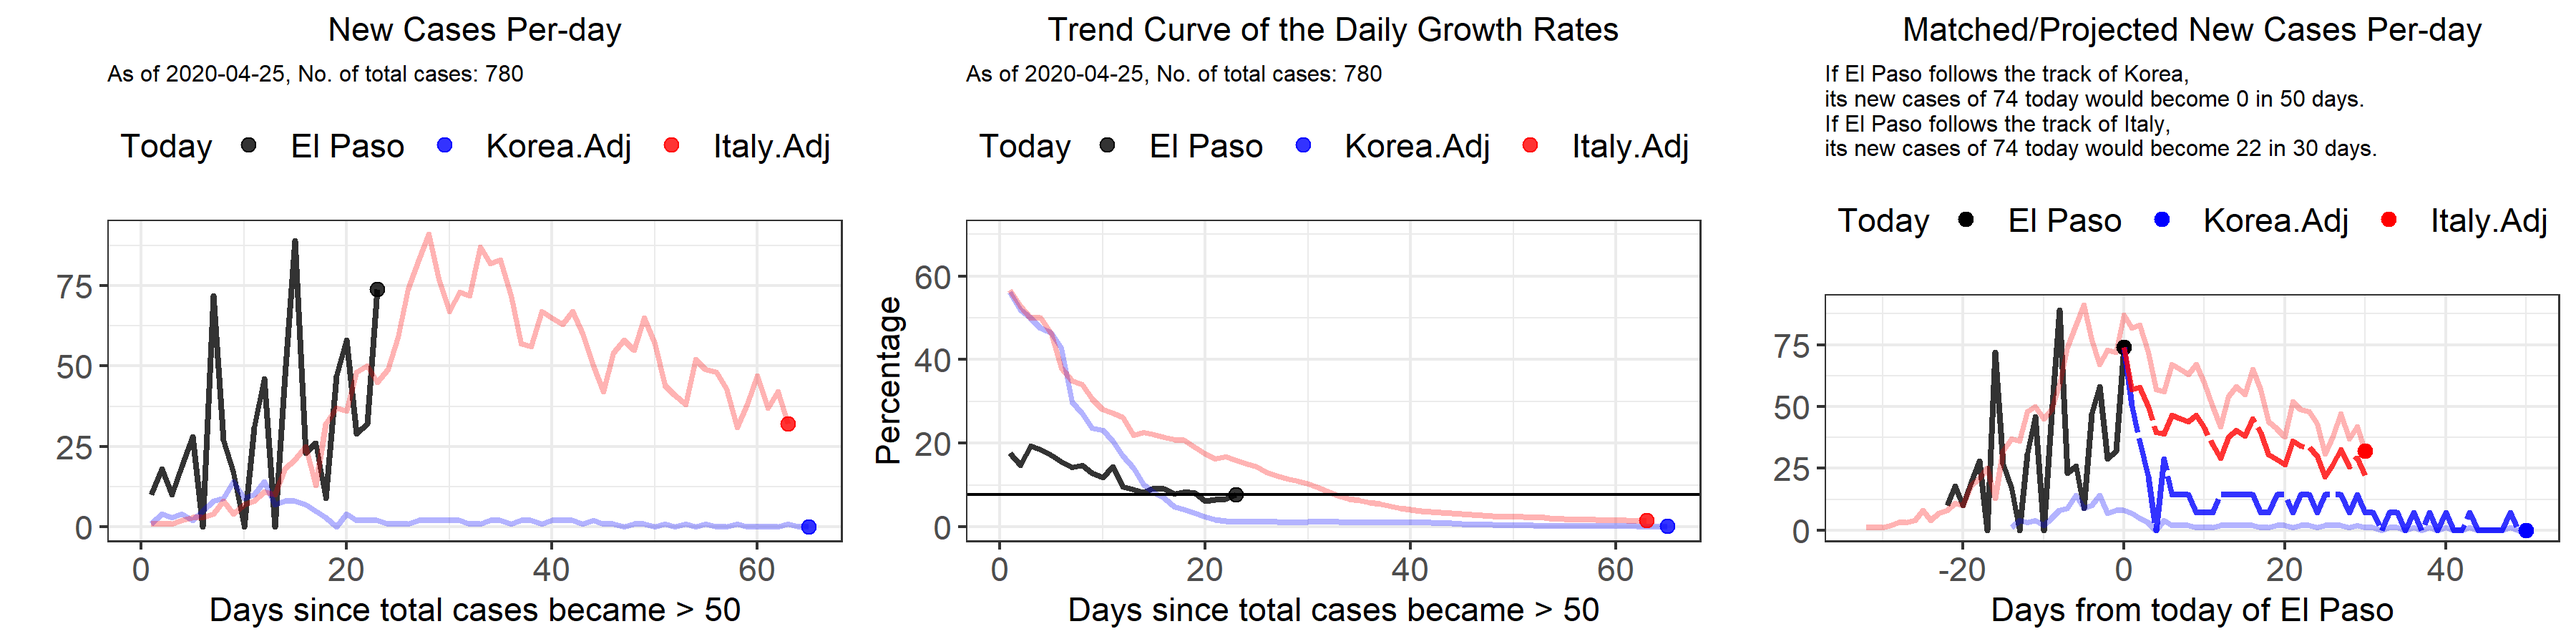
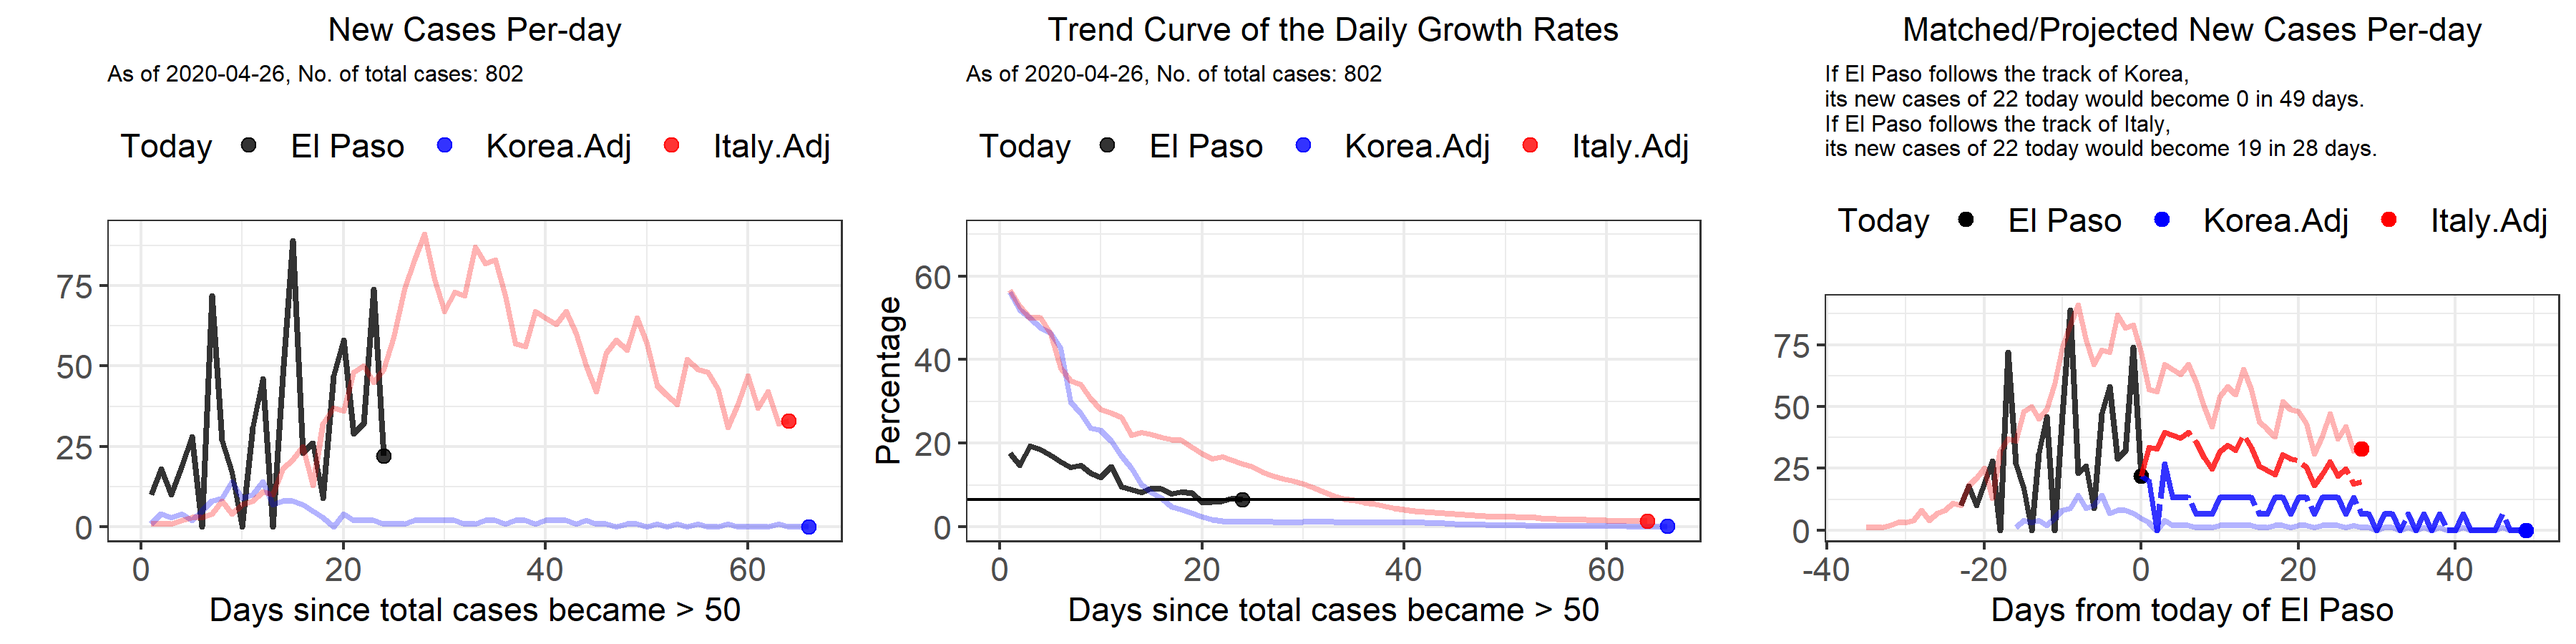
04/26 update 2

diff --git a/DAILY_REPORT_TX_COUNTY.md b/DAILY_REPORT_TX_COUNTY.md
@@ -4,7 +4,7 @@
 
  <p>&nbsp;</p> 
 
-## 2020-04-25, COVID-19 Time Series
+## 2020-04-26, COVID-19 Time Series
 # TX counties with cumulative confirmed cases > 200
 
 
@@ -50,11 +50,11 @@
 
  <p>&nbsp;</p> 
 
->![img](/output/TX_counties_uptodate/Lubbock_3plot_combined.png)
+>![img](/output/TX_counties_uptodate/Montgomery_3plot_combined.png)
 
  <p>&nbsp;</p> 
 
->![img](/output/TX_counties_uptodate/Montgomery_3plot_combined.png)
+>![img](/output/TX_counties_uptodate/Lubbock_3plot_combined.png)
 
  <p>&nbsp;</p> 
 
@@ -83,6 +83,10 @@
  <p>&nbsp;</p> 
 
 >![img](/output/TX_counties_uptodate/Williamson_3plot_combined.png)
+
+ <p>&nbsp;</p> 
+
+>![img](/output/TX_counties_uptodate/Moore_3plot_combined.png)
 
  <p>&nbsp;</p> 
 
